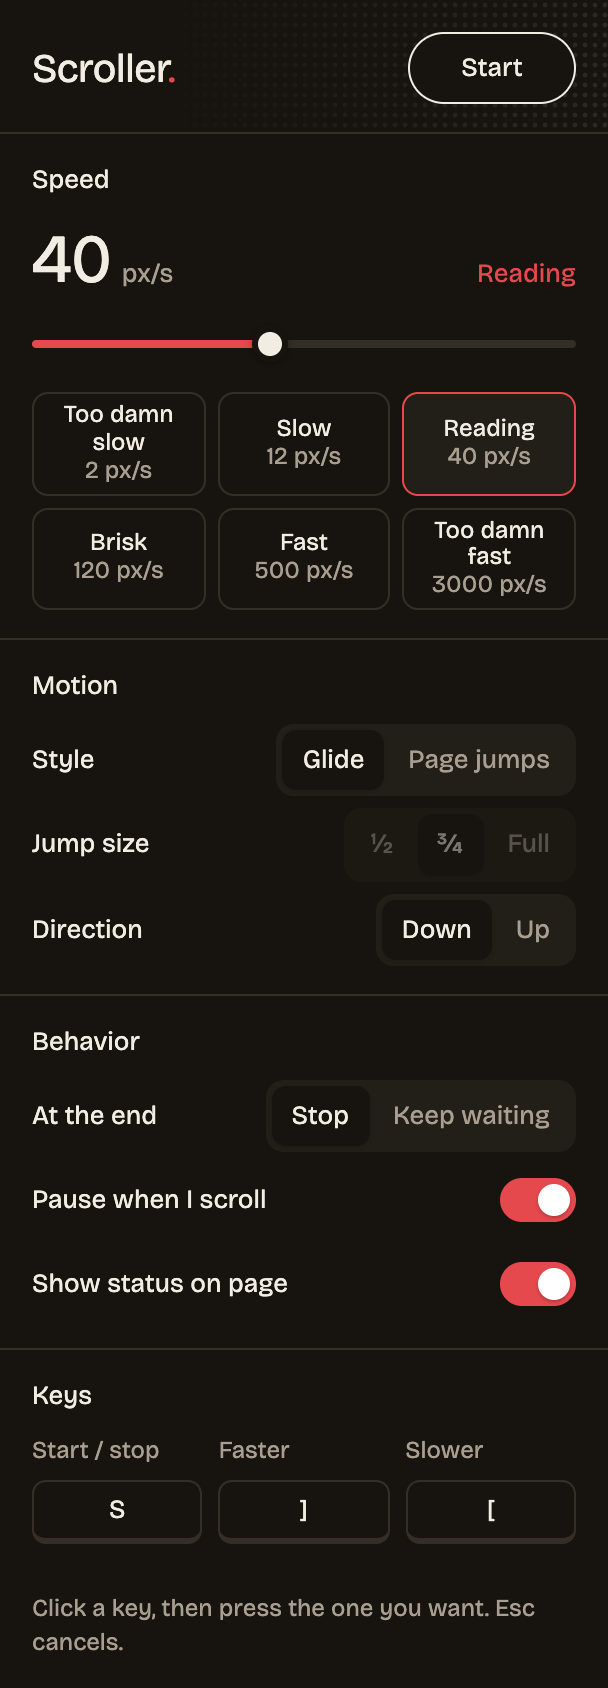
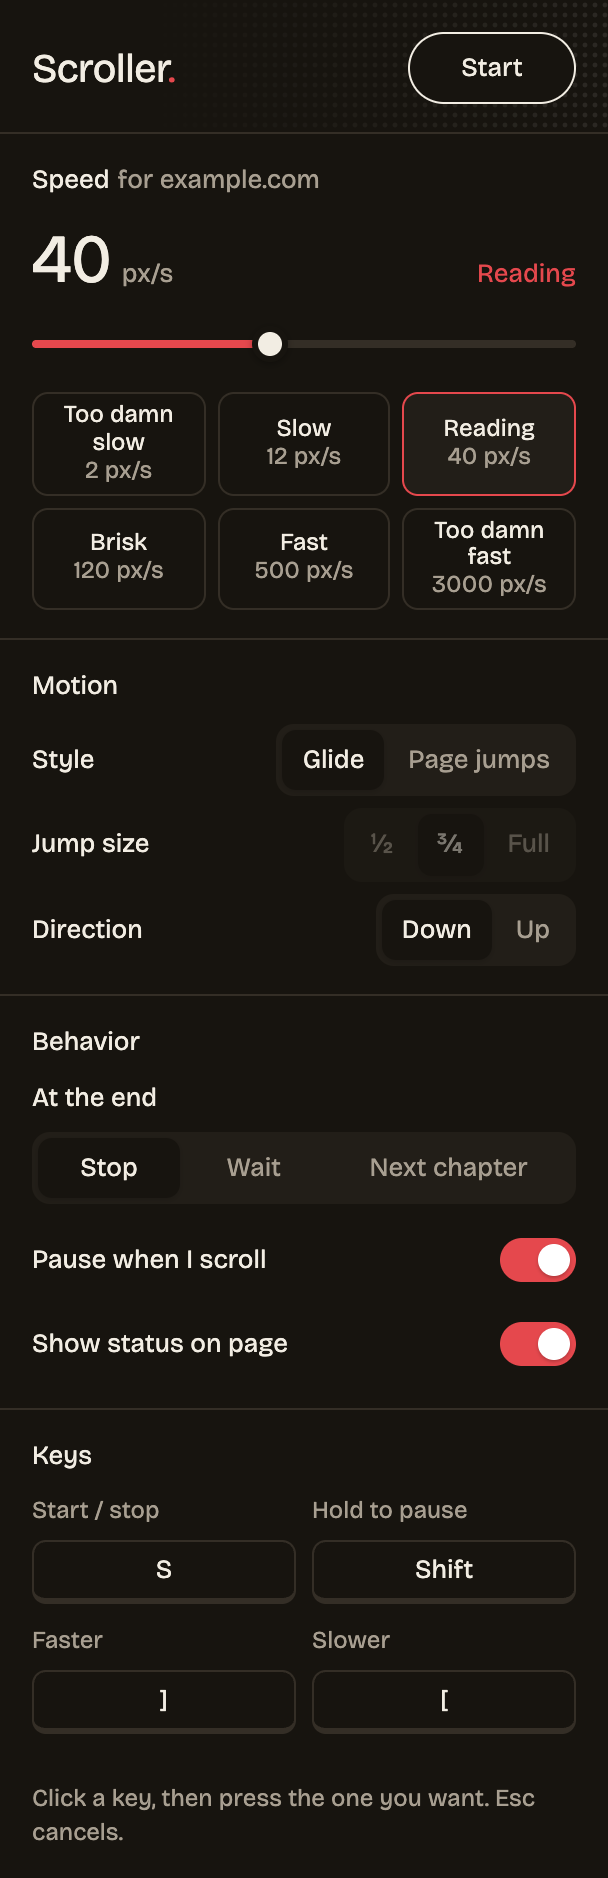
docs: document 1.1.0 features and bump version
README covers per-site speed, hold to pause, next chapter (including
how detection works and its limits), the toolbar badge, a privacy and
permissions section, troubleshooting, and update steps. Adds a
CHANGELOG following Keep a Changelog, refreshes the popup screenshot,
and bumps the manifest to 1.1.0.

diff --git a/README.md b/README.md
@@ -10,22 +10,23 @@
 </p>
 
 <p align="center">
-  <img src="docs/popup.png" width="304" alt="Scroller popup: speed slider with presets, motion, behavior and key settings">
+  <img src="docs/popup.png" width="304" alt="Scroller popup: per-site speed with presets, motion, end-of-chapter behavior and key settings">
 </p>
 
 ## Features
 
 - **One key to start and stop.** Defaults to `S`; change it to any key you like.
 - **Any speed, 1 to 5000 px/s.** A logarithmic slider gives the slow end as much room as the fast end. Type an exact number, or pick a preset from *Too damn slow* to *Too damn fast*.
-- **Adjust while reading.** `]` speeds up, `[` slows down (25% per press). Both keys are remappable.
+- **Remembers speed per site.** Every reader sizes its pages differently, so each site keeps its own speed. New sites start from the last speed you used.
+- **Hold to pause.** Hold `Shift` to freeze on a dense panel; let go and it carries on.
+- **Next chapter, automatically.** At the end of a chapter Scroller can find the reader's *Next* button and keep going on the next one. A whole series, hands-free.
+- **Adjust while reading.** `]` speeds up 25%, `[` takes it back down a step.
 - **Glide or page jumps.** Scroll continuously, or jump ½, ¾ or a full screen at a time.
 - **Up or down.**
-- **Stops at the end**, or keeps waiting for more pages to lazy-load.
-- **Pauses when you scroll yourself**, then carries on after two seconds.
-- **On-page status pill** showing the current speed (optional).
+- **Gentle starts and stops.** Eases in and out instead of lurching.
+- **Pauses when you scroll yourself**, then eases back in after two seconds.
+- **Status at a glance.** A red **ON** badge on the toolbar icon, plus an optional pill on the page showing the speed.
 - **Works on tricky readers.** Handles sites that use CSS smooth scrolling and readers that scroll an inner panel instead of the page.
-
-No accounts, no tracking, no network requests. Settings live in your browser's local extension storage.
 
 ## Install
 
@@ -39,19 +40,32 @@ Scroller isn't on the Chrome Web Store yet, so you load it unpacked. It takes 30
 
 Tabs that were already open need a reload before the extension can run in them.
 
+**Updating:** pull or re-download, then click the reload arrow on Scroller's card in `chrome://extensions` and reload your reader tabs.
+
 Works in Chrome and other Chromium browsers (Edge, Brave, Arc, Opera, Vivaldi).
 
 ## Usage
 
-| Action | How |
-| --- | --- |
-| Start / stop | Press `S`, or click **Start** in the popup |
-| Faster | `]` |
-| Slower | `[` |
-| Change speed precisely | Drag the slider, type a number, or click a preset |
-| Remap a key | Click the key in the popup, then press the new one (`Esc` cancels) |
+| Action | Default | Notes |
+| --- | --- | --- |
+| Start / stop | `S` | Or click **Start** in the popup |
+| Hold to pause | `Shift` | Resumes when you let go |
+| Faster | `]` | +25% per press, saved for this site |
+| Slower | `[` | −20% per press (undoes one faster press), saved for this site |
+| Set an exact speed | | Drag the slider, type a number, or click a preset |
+| Remap a key | | Click it in the popup, press the new key (`Esc` cancels) |
 
-Keys are ignored while you're typing in a text box, and never fire with `Ctrl`, `Cmd` or `Alt` held, so they won't clash with browser shortcuts.
+Keys are ignored while you're typing in a text box. Start, faster and slower never fire with `Ctrl`, `Cmd` or `Alt` held, so they won't clash with browser shortcuts. The hold key may be a modifier (`Shift`, `Ctrl`, `Alt`, `Cmd`) and still passes through to the page, so `Shift`+click keeps working.
+
+### At the end of a page
+
+| Option | What happens |
+| --- | --- |
+| **Stop** | Scrolling stops at the bottom. |
+| **Wait** | Keeps going if more pages load in. Good for infinite-scroll readers. |
+| **Next chapter** | Finds the reader's next-chapter link or button, opens it, and keeps scrolling. |
+
+**How Next chapter finds the button.** It scores every visible link and button on its text, label, class names and `rel="next"`. Wording like "chapter" and arrow icons count in its favor. Anything that says *prev*, *back* or *comments* is skipped. If it can't find one, or clicking it doesn't move the page on, Scroller stops rather than looping. It works with readers that load a new page and with readers that swap chapters in place. Two limits: auto-resume can't cross to a different website, and it only applies when scrolling down.
 
 ### Speed guide
 
@@ -64,6 +78,21 @@ Keys are ignored while you're typing in a text box, and never fire with `Ctrl`, 
 | Fast | 500 | Skimming |
 | Too damn fast | 3000 | Flying through to find your place |
 
+## Privacy and permissions
+
+No accounts, no tracking, no analytics, no network requests. Settings, including your per-site speeds, stay in your browser's local extension storage.
+
+| Permission | Why |
+| --- | --- |
+| `storage` | Saves your settings and per-site speeds locally. |
+| Runs on all sites | Scroller has to listen for your start key on whatever page you're reading. It does nothing until you press it. |
+
+## Troubleshooting
+
+- **Nothing happens when I press the key.** Reload the tab; pages opened before installing or updating don't have Scroller yet. Browser pages like `chrome://` and the Chrome Web Store don't allow extensions at all.
+- **Next chapter picked the wrong button, or none.** Every site is different. Switch *At the end* to **Stop**, and please [open an issue](https://github.com/ShayanHussainSB/scroller/issues/new?template=bug_report.yml) with the reader's address so detection can improve.
+- **It stops when I touch the trackpad.** That's *Pause when I scroll*; it eases back in after two seconds. Turn it off in the popup if you'd rather it didn't.
+
 ## Project structure
 
 ```
@@ -71,7 +100,8 @@ extension/
 ├── manifest.json        Chrome extension manifest (MV3)
 ├── scripts/
 │   ├── defaults.js      Shared settings, limits and presets
-│   └── content.js       The scroller that runs on each page
+│   ├── content.js       The scroller that runs on each page
+│   └── background.js    Toolbar icon badge
 ├── popup/
 │   ├── popup.html       Settings popup (markup + styles)
 │   └── popup.js         Popup behavior
@@ -84,7 +114,7 @@ No build step and no dependencies. Edit a file, hit reload on `chrome://extensio
 
 ## Contributing
 
-Issues and pull requests are welcome. Please keep it dependency-free and small, and test on at least one real reader site before opening a PR.
+Issues and pull requests are welcome. Please keep it dependency-free and small, and test on at least one real reader site before opening a PR. See [CHANGELOG.md](CHANGELOG.md) for what changed in each release.
 
 ## License
 

diff --git a/CHANGELOG.md b/CHANGELOG.md
@@ -1,0 +1,24 @@
+# Changelog
+
+All notable changes to Scroller are listed here. The format follows [Keep a Changelog](https://keepachangelog.com/en/1.1.0/), and versions follow [Semantic Versioning](https://semver.org/).
+
+## [1.1.0] - 2026-10-08
+
+### Added
+- **Next chapter** option under *At the end*: finds the reader's next-chapter control, opens it and keeps scrolling. Works with full page loads and with readers that swap chapters in place.
+- **Per-site speed.** Speed is remembered for each website; new sites start from the last speed used. The popup shows which site it's editing.
+- **Hold to pause** key, `Shift` by default and remappable. The on-page pill reads "Paused" while it's held.
+- **ON badge** on the toolbar icon in tabs where Scroller is running.
+- Scrolling eases in and out on start, stop and resume.
+
+### Changed
+- *At the end* choices are now Stop, Wait and Next chapter, on a full-width row.
+- The popup key grid holds four keys.
+
+## [1.0.0] - 2026-10-08
+
+### Added
+- First release: one-key start/stop, 1–5000 px/s logarithmic speed with presets, glide or page-jump modes, up/down, stop or wait at the end, pause on manual scroll, on-page status pill, remappable faster/slower keys and a dark popup.
+
+[1.1.0]: https://github.com/ShayanHussainSB/scroller/compare/v1.0.0...v1.1.0
+[1.0.0]: https://github.com/ShayanHussainSB/scroller/releases/tag/v1.0.0
